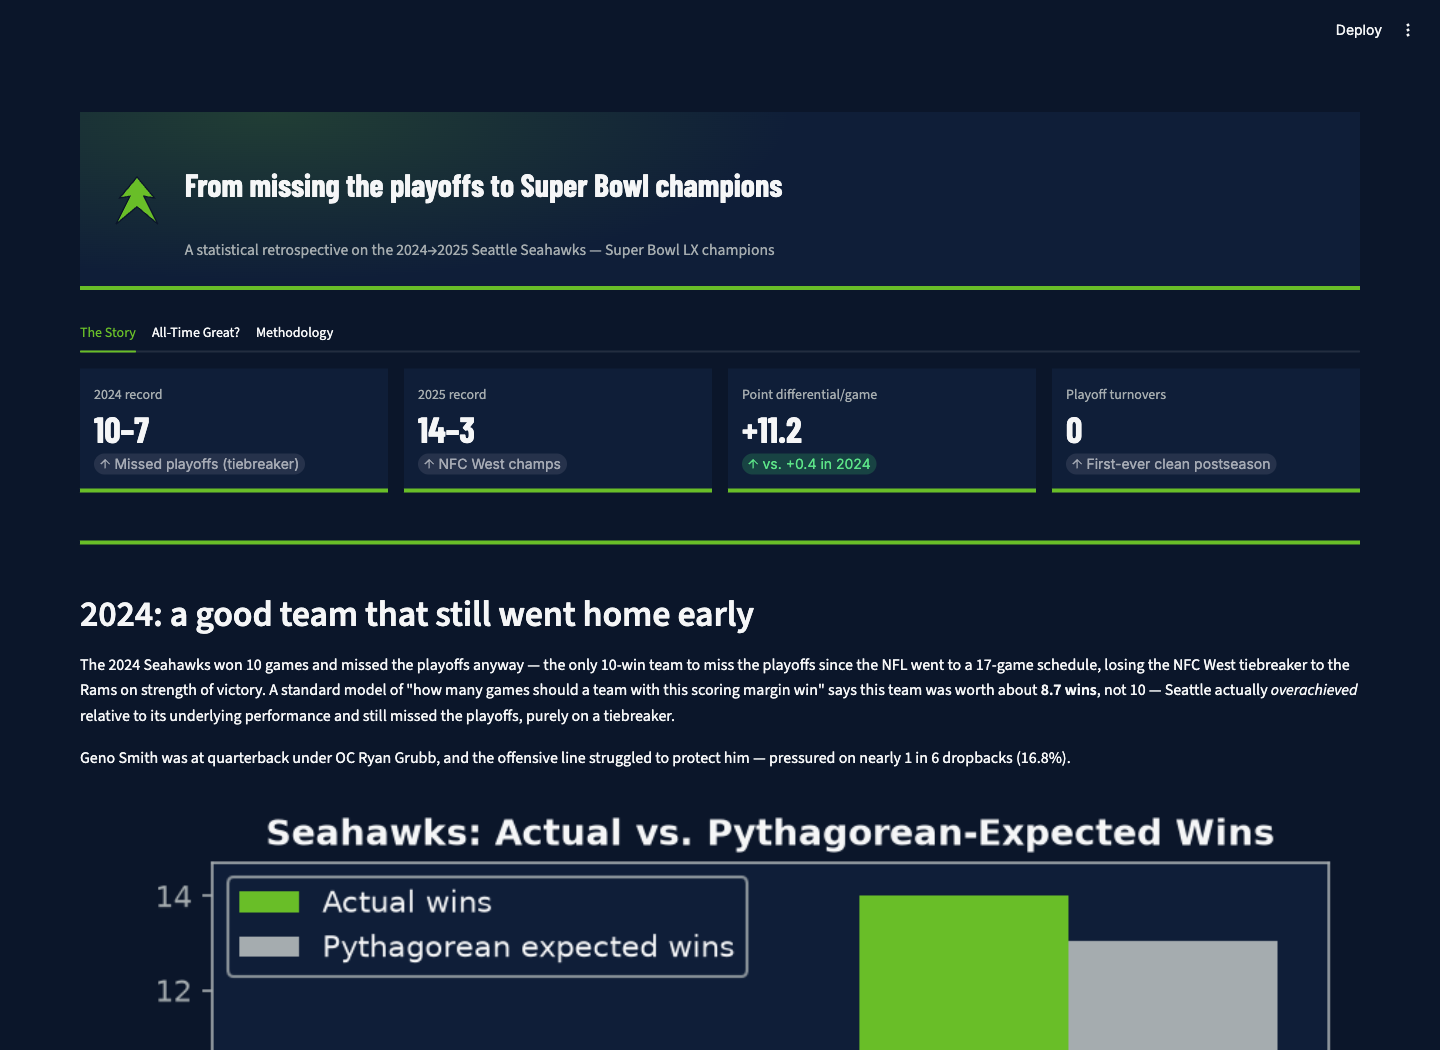
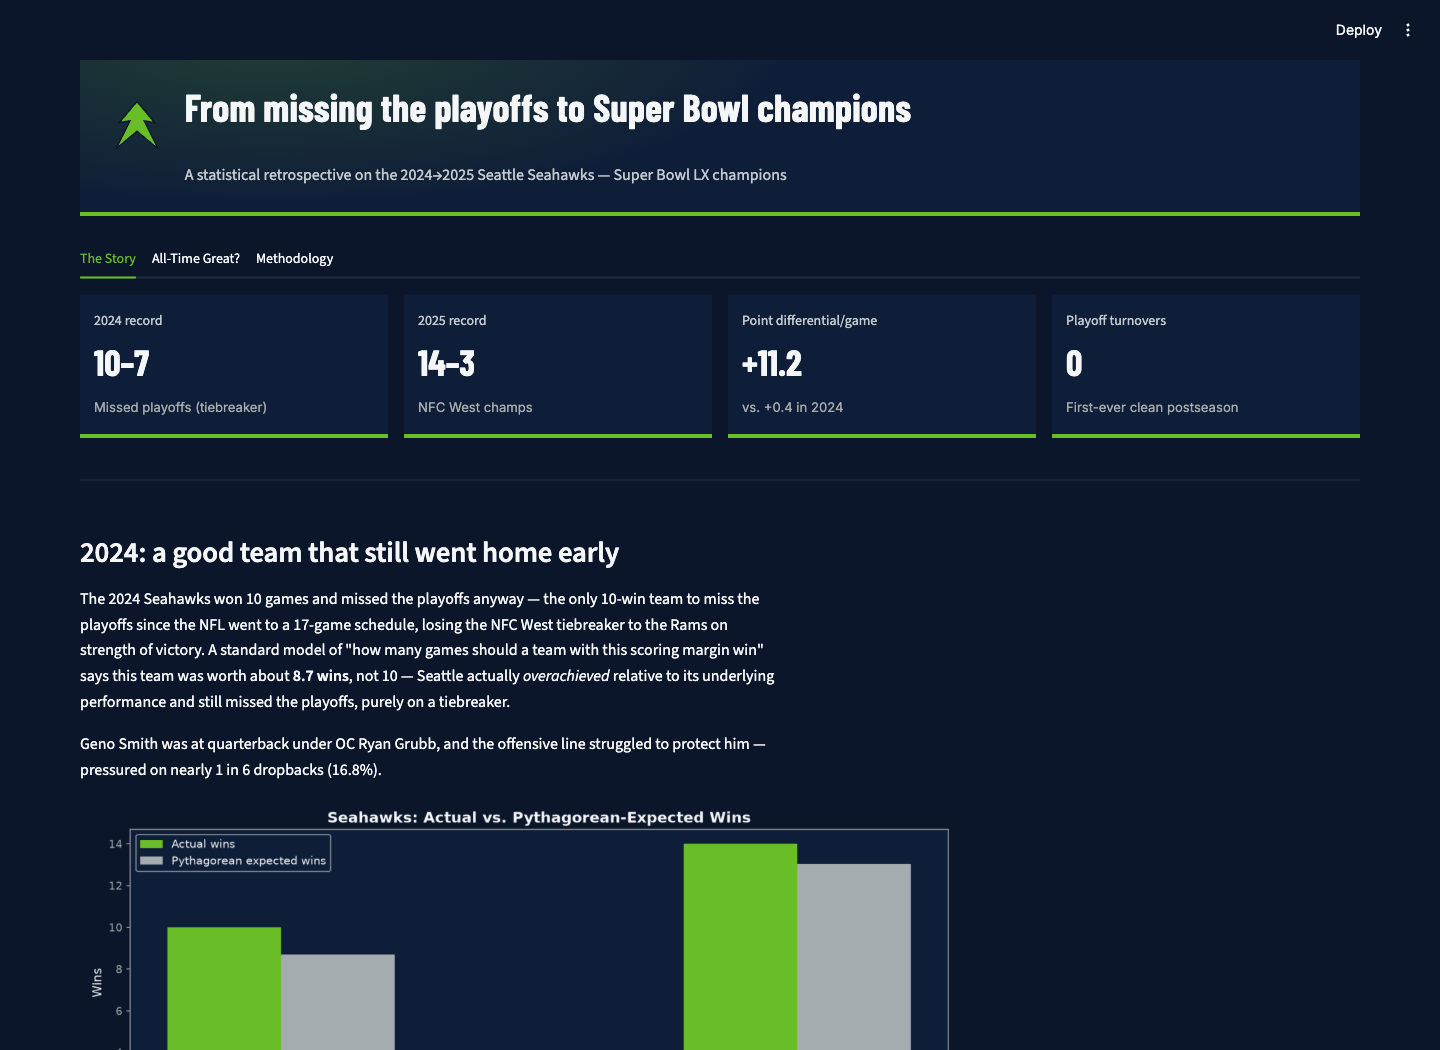
Phase 17b: normalize static chart sizing, regenerate all figures
Follow-up to 1d48177, which capped the PNGs at 880px in the dashboard but
left the underlying figures authored at eleven different widths.

Every PNG is displayed at one fixed on-page width, so a figure's apparent
type size is its point size divided by its width in inches. Authoring
figures at 6in and 16in meant the same `fontsize=9` label rendered at 18px
in one chart and 7px in another -- a 2.6x spread on what should be one
semantic element.

- chart_style.py gains FIG_WIDTH / fig_size() and an explicit rcParams type
  scale, so all 17 figures share one width and one set of type sizes. Every
  PNG is now exactly 1650px wide.
- Heights chosen per figure. The radar chart (7.5x7) was the worst offender
  at 821px tall on page; it is now 496px, with its legend moved into the
  flank a wide polar axes leaves empty.
- The 3-panel anomaly figure's titles no longer fit once normalized, so they
  are shortened and set at an explicit subordinate size; its two season
  markers are staggered in y to stop their labels colliding.
- Narrower bars in the Pythagorean chart and larger waterfall category
  labels, both of which the new width exposed.
- Dashboard: the last two 2-column image pairs are unstacked. At ~630px they
  rendered 1.4x smaller than everything else, reintroducing the exact
  inconsistency this pass removes.
- README screenshots regenerated against the new layout.

outputs/*.png change by design here; outputs/*.json is byte-identical,
[…]

diff --git a/src/phase5_anomaly_detection.py b/src/phase5_anomaly_detection.py
@@ -81,6 +81,7 @@ from chart_style import (
     OFF_WHITE,
     WOLF_GREY,
     apply_scoreboard_style,
+    fig_size,
 )
 
 ROOT = Path(__file__).resolve().parent.parent
@@ -294,7 +295,7 @@ def radar_chart(df: pd.DataFrame, path: Path) -> None:
     angles = np.linspace(0, 2 * np.pi, len(METRICS), endpoint=False).tolist()
     closed = angles + angles[:1]
 
-    fig, ax = plt.subplots(figsize=(7.5, 7), subplot_kw={"projection": "polar"})
+    fig, ax = plt.subplots(figsize=fig_size(6.2), subplot_kw={"projection": "polar"})
     for season, color in zip(FOCUS_SEASONS, [WOLF_GREY, ACTION_GREEN]):
         row = row_for(df, season)
         values = [row[z_col(m)] for m in METRICS]
@@ -314,33 +315,39 @@ def radar_chart(df: pd.DataFrame, path: Path) -> None:
         fontsize=12,
         pad=24,
     )
-    ax.legend(loc="upper right", bbox_to_anchor=(1.22, 1.12))
+    # A polar axes sizes its circle off the shorter dimension, so a wide figure
+    # leaves the flanks empty -- the legend belongs there, not over the plot.
+    ax.legend(loc="upper left", bbox_to_anchor=(-0.02, 1.02))
     fig.tight_layout()
     fig.savefig(path, dpi=150)
     plt.close(fig)
 
 
+# Panel titles are subordinate to the figure title and share one width three ways.
+PANEL_TITLE_PT = 11.5
+
+
 def historical_rank_chart(df: pd.DataFrame, path: Path) -> None:
     apply_scoreboard_style()
     sea24, sea25 = (row_for(df, s) for s in FOCUS_SEASONS)
-    fig, axes = plt.subplots(1, 3, figsize=(16, 5))
+    fig, axes = plt.subplots(1, 3, figsize=fig_size(4.2))
 
     axes[0].hist(df["mahalanobis"], bins=40, color=WOLF_GREY, edgecolor=OFF_WHITE)
-    axes[0].set_title(f"Mahalanobis distance from average\n(all {len(df)} team-seasons, 2010-2025)")
+    axes[0].set_title(f"Mahalanobis distance\n({len(df)} team-seasons, 2010-2025)", fontsize=PANEL_TITLE_PT)
     axes[0].set_xlabel("Mahalanobis distance (unsigned)")
     axes[0].set_ylabel("Team-seasons")
 
     axes[1].hist(df["composite_z"], bins=40, color=WOLF_GREY, edgecolor=OFF_WHITE)
-    axes[1].set_title("Composite defensive z-score\n(mean of 4 signed z-scores)")
+    axes[1].set_title("Composite z-score\n(mean of 4 signed z-scores)", fontsize=PANEL_TITLE_PT)
     axes[1].set_xlabel("Composite z (higher = better defense)")
     axes[1].set_ylabel("Team-seasons")
 
     for ax, key in zip(axes[:2], ["mahalanobis", "composite_z"]):
-        for row, color, season in ((sea24, WOLF_GREY, 2024), (sea25, ACTION_GREEN, 2025)):
+        for row, color, season, y in ((sea24, WOLF_GREY, 2024, 0.84), (sea25, ACTION_GREEN, 2025, 0.64)):
             ax.axvline(row[key], color=color, linewidth=2)
             ax.annotate(
                 f"SEA {season}\n{row[key]:.2f}",
-                xy=(row[key], ax.get_ylim()[1] * 0.88),
+                xy=(row[key], ax.get_ylim()[1] * y),
                 xytext=(6, 0),
                 textcoords="offset points",
                 color=color,
@@ -367,12 +374,12 @@ def historical_rank_chart(df: pd.DataFrame, path: Path) -> None:
             fontweight="bold",
         )
     axes[2].axvline(0, color=OFF_WHITE, linewidth=0.8, linestyle="--")
-    axes[2].set_title("Distance is unsigned:\ngood and bad defenses both sit far out")
+    axes[2].set_title("Distance is unsigned\nboth extremes sit far out", fontsize=PANEL_TITLE_PT)
     axes[2].set_xlabel("Composite z (higher = better defense)")
     axes[2].set_ylabel("Mahalanobis distance")
     axes[2].legend(fontsize=8, loc="lower left")
 
-    fig.suptitle("How extreme was the 2025 Seahawks defense? (2010-2025 team-seasons)", fontsize=13)
+    fig.suptitle("How extreme was the 2025 Seahawks defense? (2010-2025 team-seasons)")
     fig.tight_layout()
     fig.savefig(path, dpi=150)
     plt.close(fig)

diff --git a/src/phase7_decomposition.py b/src/phase7_decomposition.py
@@ -66,6 +66,7 @@ from chart_style import (
     OFF_WHITE,
     WOLF_GREY,
     apply_scoreboard_style,
+    fig_size,
 )
 
 ROOT = Path(__file__).resolve().parent.parent
@@ -240,7 +241,7 @@ def feature_importance_chart(ols: dict, path: Path) -> None:
     labels = [FEATURE_LABELS[n] for n in names]
     colors = [ACTION_GREEN if c > 0 else ALERT_RED for c in coefs]
 
-    fig, ax = plt.subplots(figsize=(8, 5))
+    fig, ax = plt.subplots(figsize=fig_size(5.2))
     bars = ax.barh(labels, coefs, color=colors, edgecolor=OFF_WHITE)
     for bar, p in zip(bars, pvals):
         sig = "***" if p < 0.001 else "**" if p < 0.01 else "*" if p < 0.05 else "n.s."
@@ -271,7 +272,7 @@ def waterfall_chart(decomp: dict, path: Path) -> None:
         cum.append(cum[-1] + s)
     end = decomp["sea_point_diff_per_game_2025"]
 
-    fig, ax = plt.subplots(figsize=(11, 6))
+    fig, ax = plt.subplots(figsize=fig_size(5.8))
 
     # First bar: base value 2024
     ax.bar(0, start, color=WOLF_GREY)
@@ -289,7 +290,7 @@ def waterfall_chart(decomp: dict, path: Path) -> None:
     ax.text(len(labels) - 1, end + 0.15, f"{end:.2f}", ha="center", fontsize=9)
 
     ax.set_xticks(range(len(labels)))
-    ax.set_xticklabels(labels, rotation=30, ha="right", fontsize=8)
+    ax.set_xticklabels(labels, rotation=30, ha="right", fontsize=9)
     ax.set_ylabel("Point differential per game")
     ax.axhline(0, color=OFF_WHITE, lw=0.6)
     ax.set_title("Decomposing SEA's 2024→2025 point-differential jump\n"

diff --git a/src/phase13_historical_baseline.py b/src/phase13_historical_baseline.py
@@ -53,6 +53,7 @@ from chart_style import (
     OFF_WHITE,
     WOLF_GREY,
     apply_scoreboard_style,
+    fig_size,
 )
 from season_metrics import RELOCATION_MAP, percentile_rank
 
@@ -265,7 +266,7 @@ def scorecard_chart(scores: dict, path: Path) -> None:
     raw = [v["raw_percentile"] for _, v in items]
     era = [v["era_adjusted_percentile"] for _, v in items]
 
-    fig, ax = plt.subplots(figsize=(9.5, 7))
+    fig, ax = plt.subplots(figsize=fig_size(6.6))
     y = np.arange(len(labels))
 
     for yi, r, e in zip(y, raw, era):
@@ -297,7 +298,7 @@ def distribution_chart(reg: pd.DataFrame, scores: dict, path: Path) -> None:
         "points_per_drive_allowed",
         "def_explosive_rate_allowed",
     ]
-    fig, axes = plt.subplots(2, 3, figsize=(13, 7))
+    fig, axes = plt.subplots(2, 3, figsize=fig_size(6.0))
     for ax, metric in zip(axes.ravel(), picks):
         vals = reg[metric].dropna()
         sea_val = scores[metric]["sea_2025_value"]
@@ -332,7 +333,7 @@ def champion_chart(reg: pd.DataFrame, champs: pd.DataFrame, path: Path) -> None:
         for r in champ_rows.itertuples()
     ]
 
-    fig, ax = plt.subplots(figsize=(8, 9))
+    fig, ax = plt.subplots(figsize=fig_size(7.4))
     ax.barh(labels, vals, color=colors)
     ax.set_xlabel("Regular-season point differential per game")
     ax.set_title("Every Super Bowl champion since 1999, by regular-season margin")

diff --git a/dashboard/app.py b/dashboard/app.py
@@ -312,9 +312,8 @@ Seattle's underlying performance jumped by slightly *more* than the record
 shows — the team may have quietly left a little improvement on the table.
 """
     )
-    ecol1, ecol2 = st.columns(2)
-    ecol1.image(str(OUTPUTS / "decomposition_waterfall.png"), width="stretch")
-    ecol2.image(str(OUTPUTS / "decomposition_feature_importance.png"), width="stretch")
+    st.image(str(OUTPUTS / "decomposition_waterfall.png"), width="stretch")
+    st.image(str(OUTPUTS / "decomposition_feature_importance.png"), width="stretch")
 
     st.header("Season trend explorer")
     st.caption("SEA's weekly team features, 2024 vs. 2025 — from `team_week_features.csv`.")
@@ -649,9 +648,8 @@ On the clock-weighted version it ranks
         "same schedule with the same team quality shows how much a 17-game record can swing."
     )
 
-    ac1, ac2 = st.columns(2)
-    ac1.image(str(OUTPUTS / "counterfactual_record_distribution.png"), width="stretch")
-    ac2.image(str(OUTPUTS / "counterfactual_close_games.png"), width="stretch")
+    st.image(str(OUTPUTS / "counterfactual_record_distribution.png"), width="stretch")
+    st.image(str(OUTPUTS / "counterfactual_close_games.png"), width="stretch")
 
     st.markdown(
         f"""

diff --git a/src/phase14_game_control.py b/src/phase14_game_control.py
@@ -61,6 +61,7 @@ from chart_style import (
     OFF_WHITE,
     WOLF_GREY,
     apply_scoreboard_style,
+    fig_size,
 )
 from phase13_historical_baseline import super_bowl_champions
 from season_metrics import percentile_rank
@@ -205,7 +206,7 @@ def champions_chart(combined: pd.DataFrame, champs: pd.DataFrame, path: Path) ->
             for r in df.itertuples()
         ]
 
-    fig, axes = plt.subplots(1, 2, figsize=(13, 8), sharey=True)
+    fig, axes = plt.subplots(1, 2, figsize=fig_size(6.8), sharey=True)
     axes[0].barh(labels, rows["avg_final_margin"], color=colors_for(rows))
     axes[0].set_xlabel("Average final margin (pts/game)")
     axes[0].set_title("The published statistic\nAverage end-of-game differential")
@@ -236,7 +237,7 @@ def season_arc_chart(control: pd.DataFrame, path: Path) -> None:
     ]
     colors = [ACTION_GREEN if v >= 0 else ALERT_RED for v in df["time_weighted_margin"]]
 
-    fig, ax = plt.subplots(figsize=(12, 5.5))
+    fig, ax = plt.subplots(figsize=fig_size(5.0))
     ax.bar(x, df["time_weighted_margin"], color=colors)
     ax.plot(x, df["final_margin"], color=OFF_WHITE, lw=1.4, marker="o", ms=4, label="Final margin")
     ax.axhline(0, color=OFF_WHITE, lw=0.8)

diff --git a/src/phase15_defense.py b/src/phase15_defense.py
@@ -54,6 +54,7 @@ from chart_style import (
     OFF_WHITE,
     WOLF_GREY,
     apply_scoreboard_style,
+    fig_size,
 )
 from phase13_historical_baseline import rank_in_good_direction
 from season_metrics import percentile_rank, rolling_window_best
@@ -181,7 +182,7 @@ def supporting_metrics(reg: pd.DataFrame) -> dict:
 def rolling_chart(games: pd.DataFrame, metric: str, path: Path) -> None:
     """SEA 2025's rolling window against the full 1999-2025 cloud."""
     apply_scoreboard_style()
-    fig, ax = plt.subplots(figsize=(11, 6))
+    fig, ax = plt.subplots(figsize=fig_size(5.8))
 
     for (season, team), g in games.groupby(["season", "team"], sort=False):
         if season == FOCUS_SEASON and team == FOCUS_TEAM:
@@ -232,7 +233,7 @@ def drive_efficiency_chart(metrics: dict, path: Path) -> None:
     pcts = [b for _, b in items]
     colors = [ACTION_GREEN if p >= 90 else AMBER if p >= 70 else WOLF_GREY for p in pcts]
 
-    fig, ax = plt.subplots(figsize=(9, 5.5))
+    fig, ax = plt.subplots(figsize=fig_size(5.4))
     bars = ax.barh(labels, pcts, color=colors)
     for bar, p in zip(bars, pcts):
         ax.text(p + 1, bar.get_y() + bar.get_height() / 2, f"{p:.0f}", va="center", fontsize=8)

diff --git a/src/phase16_counterfactual.py b/src/phase16_counterfactual.py
@@ -64,6 +64,7 @@ from chart_style import (
     OFF_WHITE,
     WOLF_GREY,
     apply_scoreboard_style,
+    fig_size,
 )
 from pythagorean import NFL_EXPONENT, expected_wins
 from season_metrics import RELOCATION_MAP
@@ -229,7 +230,7 @@ def record_distribution_chart(sim_wins: np.ndarray, path: Path) -> None:
     pct = 100 * counts / counts.sum()
     colors = [ACTION_GREEN if w == GROUND_TRUTH_WINS else WOLF_GREY for w in counts.index]
 
-    fig, ax = plt.subplots(figsize=(10, 5.5))
+    fig, ax = plt.subplots(figsize=fig_size(5.4))
     ax.bar(counts.index, pct, color=colors, width=0.75)
     ax.axvline(np.mean(sim_wins), color=AMBER, ls="--", lw=1.6,
                label=f"Simulated mean {np.mean(sim_wins):.1f} wins")
@@ -252,7 +253,7 @@ def close_games_chart(sched: pd.DataFrame, path: Path) -> None:
     df = sched.sort_values("week")
     colors = [ACTION_GREEN if m > 0 else ALERT_RED for m in df["margin"]]
 
-    fig, ax = plt.subplots(figsize=(12, 5))
+    fig, ax = plt.subplots(figsize=fig_size(4.6))
     bars = ax.bar(df["week"], df["margin"], color=colors)
     ax.axhspan(-8, 8, color=AMBER, alpha=0.12, zorder=0)
     ax.axhline(0, color=OFF_WHITE, lw=0.9)

diff --git a/src/chart_style.py b/src/chart_style.py
@@ -22,9 +22,28 @@ GRID = "#1C2C48"
 # WOLF_GREY = 2024 / baseline, ALERT_RED = negative, AMBER = secondary warning.
 CATEGORICAL = [ACTION_GREEN, WOLF_GREY, ACCENT_BLUE, AMBER]
 
+# Every PNG is displayed at one fixed on-page width, so a figure's apparent type
+# size is its point size divided by its width in inches -- not its point size.
+# Authoring every figure at the same width is what makes a `fontsize=9` label
+# mean the same thing in all 17 charts; heights vary freely.
+FIG_WIDTH = 11.0
+
+
+def fig_size(height: float) -> tuple[float, float]:
+    return (FIG_WIDTH, height)
+
 
 def apply_scoreboard_style() -> None:
     plt.rcParams.update({
+        # Tuned so a FIG_WIDTH figure renders type at roughly the dashboard's
+        # own scale: titles just under a section heading, ticks under body copy.
+        "font.size": 10,
+        "axes.titlesize": 13.5,
+        "axes.labelsize": 11,
+        "xtick.labelsize": 9.5,
+        "ytick.labelsize": 9.5,
+        "legend.fontsize": 10,
+        "figure.titlesize": 15,
         "figure.facecolor": NAVY,
         "savefig.facecolor": NAVY,
         "axes.facecolor": PANEL,

diff --git a/src/phase6_turnover_rate_model.py b/src/phase6_turnover_rate_model.py
@@ -99,6 +99,7 @@ from chart_style import (
     PANEL,
     WOLF_GREY,
     apply_scoreboard_style,
+    fig_size,
 )
 
 ROOT = Path(__file__).resolve().parent.parent
@@ -419,7 +420,7 @@ def zero_turnover_probability(rate: float, exposure: float, alpha: float | None 
 
 def plot_rolling(rolling: pd.DataFrame, rates: dict, trend: dict, path: Path) -> None:
     apply_scoreboard_style()
-    fig, axes = plt.subplots(2, 1, figsize=(11, 8), sharex=True)
+    fig, axes = plt.subplots(2, 1, figsize=fig_size(7.0), sharex=True)
     x = rolling["game_no"]
     labels = [f"W{int(w)}" for w in rolling["week"]]
 
@@ -487,7 +488,7 @@ def plot_probability(lam: float, alpha: float, result: dict, exposure: dict, pat
     r = 1.0 / alpha
     pmf_nb = stats.nbinom.pmf(k, r, r / (r + lam))
 
-    fig, ax = plt.subplots(figsize=(10, 6))
+    fig, ax = plt.subplots(figsize=fig_size(5.6))
     colors = [ACTION_GREEN] + [WOLF_GREY] * (len(k) - 1)
     bars = ax.bar(k, pmf, color=colors, edgecolor=OFF_WHITE, width=0.72,
                   label=f"Poisson(lambda = {lam:.2f}), fitted model")

diff --git a/src/phase2_puzzle.py b/src/phase2_puzzle.py
@@ -8,7 +8,7 @@ from pathlib import Path
 import matplotlib.pyplot as plt
 import pandas as pd
 
-from chart_style import ACTION_GREEN, WOLF_GREY, apply_scoreboard_style
+from chart_style import ACTION_GREEN, WOLF_GREY, apply_scoreboard_style, fig_size
 from pythagorean import expected_wins, pythagorean_win_pct
 
 ROOT = Path(__file__).resolve().parent.parent
@@ -61,8 +61,8 @@ def main() -> None:
 
     apply_scoreboard_style()
     x = range(len(seasons))
-    width = 0.35
-    fig, ax = plt.subplots(figsize=(6, 4))
+    width = 0.22
+    fig, ax = plt.subplots(figsize=fig_size(4.6))
     ax.bar([i - width / 2 for i in x], actual, width, label="Actual wins", color=ACTION_GREEN)
     ax.bar([i + width / 2 for i in x], expected, width, label="Pythagorean expected wins", color=WOLF_GREY)
     ax.set_xticks(list(x))

diff --git a/src/phase3_personnel.py b/src/phase3_personnel.py
@@ -9,7 +9,7 @@ from pathlib import Path
 import matplotlib.pyplot as plt
 import pandas as pd
 
-from chart_style import ACTION_GREEN, WOLF_GREY, apply_scoreboard_style
+from chart_style import ACTION_GREEN, WOLF_GREY, apply_scoreboard_style, fig_size
 
 ROOT = Path(__file__).resolve().parent.parent
 RAW_DIR = ROOT / "data" / "raw"
@@ -73,7 +73,7 @@ def main() -> None:
         json.dump(combined, f, indent=2)
 
     apply_scoreboard_style()
-    fig, axes = plt.subplots(1, 3, figsize=(11, 4))
+    fig, axes = plt.subplots(1, 3, figsize=fig_size(4.0))
     seasons = list(combined.keys())
     labels = [f"{s}\n{combined[s]['qb']}" for s in seasons]
     season_colors = [WOLF_GREY, ACTION_GREEN]
